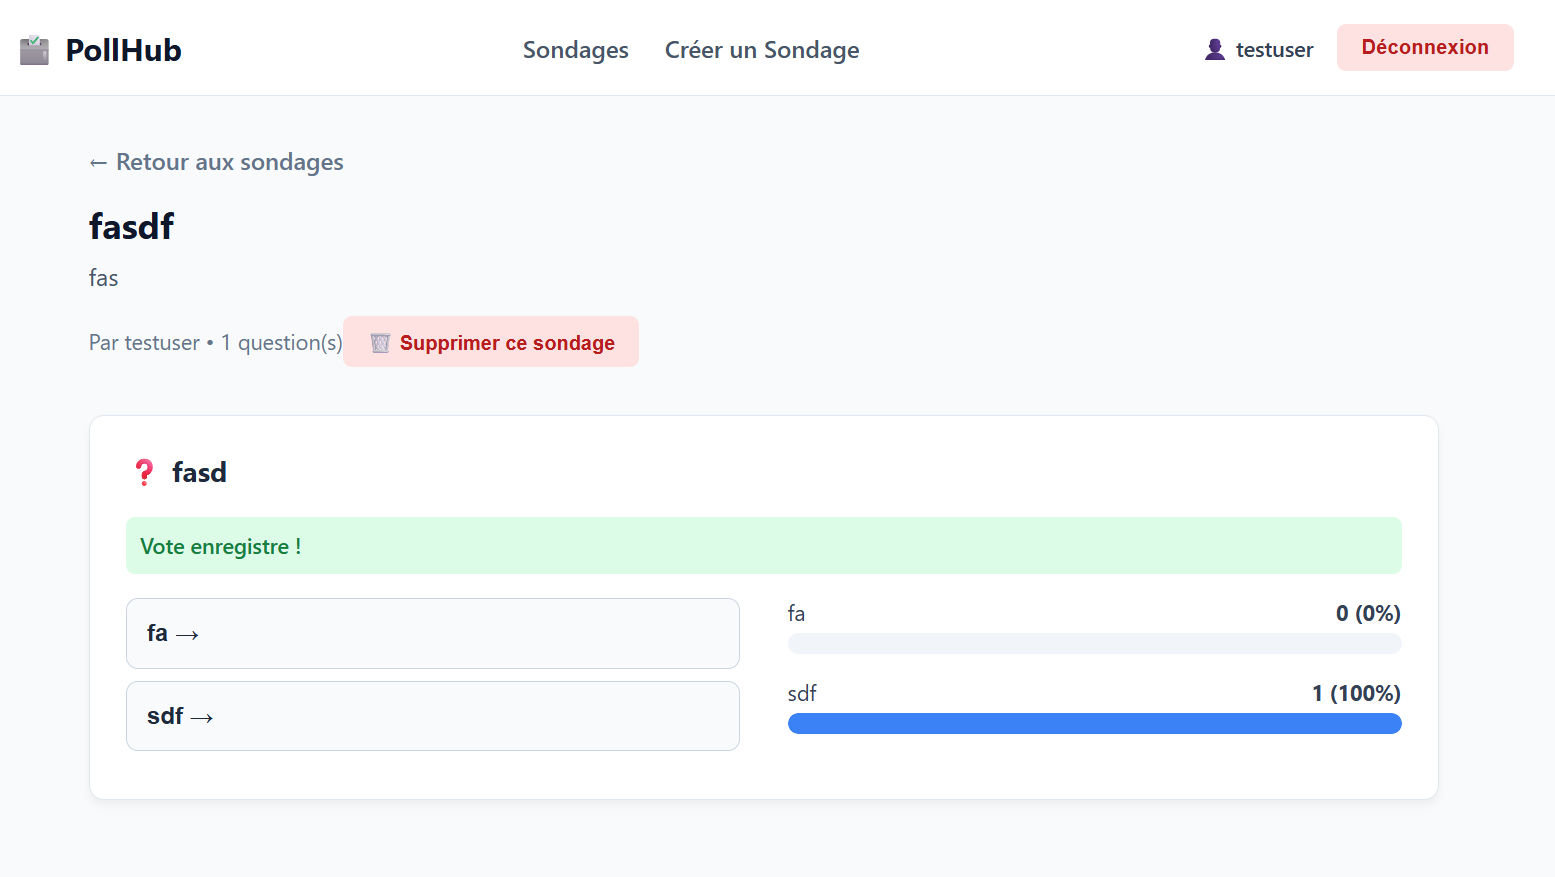
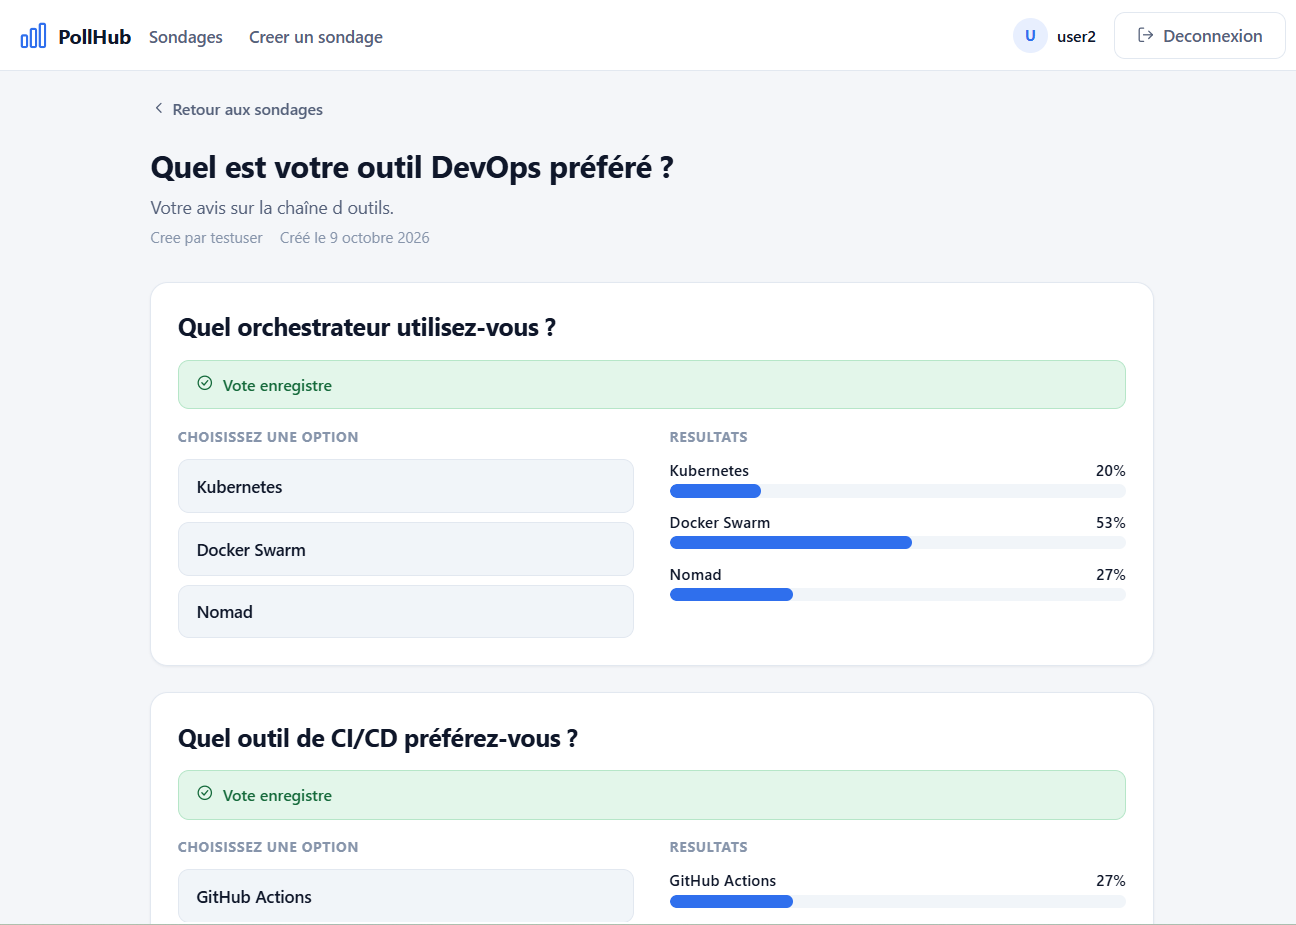
docs: README complet, schémas d'architecture et nouvelles captures

diff --git a/README.md b/README.md
@@ -1,47 +1,142 @@
 # PollHub
 
-Application de sondages multi-questions, déployée sur **Kubernetes** avec authentification **Keycloak**, anti-abus **Redis** et pipeline **CI/CD GitHub Actions**.
+Application de sondages multi-questions, conçue comme un projet **DevOps de bout en bout** : API sécurisée, authentification centralisée, déploiement sur Kubernetes, pipeline CI/CD et tests d'intégration.
 
 [![CI/CD](https://github.com/mededema/pollhub/actions/workflows/ci.yml/badge.svg)](https://github.com/mededema/pollhub/actions)
 [![License: MIT](https://img.shields.io/badge/License-MIT-yellow.svg)](LICENSE)
-
-> Projet portfolio axé **DevOps / Kubernetes** : l'application est volontairement simple, l'intérêt est dans l'écosystème autour.
+![Kubernetes](https://img.shields.io/badge/Kubernetes-326CE5?logo=kubernetes&logoColor=white)
+![Spring Boot](https://img.shields.io/badge/Spring_Boot-6DB33F?logo=springboot&logoColor=white)
+![Angular](https://img.shields.io/badge/Angular-DD0031?logo=angular&logoColor=white)
+![Keycloak](https://img.shields.io/badge/Keycloak-4D4D4D?logo=keycloak&logoColor=white)
+![PostgreSQL](https://img.shields.io/badge/PostgreSQL-4169E1?logo=postgresql&logoColor=white)
+![Redis](https://img.shields.io/badge/Redis-DC382D?logo=redis&logoColor=white)
+![Docker](https://img.shields.io/badge/Docker-2496ED?logo=docker&logoColor=white)
 
 ![Liste des sondages](docs/liste.png)
-![Page de vote](docs/vote.png)
+
+| Vote et résultats | Création d'un sondage | Vue mobile |
+|---|---|---|
+| ![Vote](docs/vote.png) | ![Création](docs/creation.png) | ![Mobile](docs/mobile.png) |
+
+L'application est volontairement simple : l'intérêt du projet est tout ce qu'il y a autour (sécurité, fiabilité, déploiement, automatisation).
 
 ## Fonctionnalités
 
-- Sondages avec **plusieurs questions**, chacune avec plusieurs options
-- Authentification **OpenID Connect** (Keycloak) avec jetons JWT
-- Un vote par question et par utilisateur, limite de **5 votes/minute** (Redis)
-- Résultats visibles après avoir voté (le créateur les voit toujours)
-- Le créateur peut supprimer ses sondages
+- Sondages à **plusieurs questions**, chacune avec 2 à 10 options
+- Authentification **OpenID Connect** (Keycloak), jetons JWT, API sans état
+- **Un vote par question et par utilisateur**, garanti par une contrainte unique en base
+- Limitation du nombre de votes par minute (anti-abus, Redis)
+- Résultats visibles après avoir voté (le créateur les voit toujours), mis à jour en direct
+- Le créateur peut supprimer ses sondages, avec confirmation
+- Interface responsive, thème clair et sombre automatique, navigation au clavier, respect de la préférence « réduire les animations »
 
 ## Architecture
 
 ```mermaid
 flowchart LR
-    U[Navigateur] -->|HTTPS| I[Ingress NGINX]
-    I -->|/auth| K[Keycloak]
-    I -->|/| F[Frontend Angular + Nginx]
-    F -->|/api| B[Backend Spring Boot]
-    B -->|valide les JWT| K
-    B --> R[(Redis)]
-    B --> P[(PostgreSQL)]
+    U(["Navigateur"])
+
+    subgraph K8S["Cluster Kubernetes (namespace pollhub)"]
+        direction LR
+        ING["Ingress NGINX<br/>HTTPS pollhub.local"]
+        subgraph APP["Application"]
+            FE["Frontend<br/>Angular + Nginx<br/>2 réplicas"]
+            BE["Backend<br/>Spring Boot<br/>API REST"]
+        end
+        KC["Keycloak<br/>OpenID Connect"]
+        subgraph DATA["Données"]
+            PG[("PostgreSQL<br/>StatefulSet + PVC")]
+            RD[("Redis<br/>compteurs et limites")]
+        end
+    end
+
+    U -->|"HTTPS"| ING
+    ING -->|"/"| FE
+    ING -->|"/auth"| KC
+    FE -->|"proxy /api"| BE
+    BE -->|"clés publiques JWT"| KC
+    BE --> PG
+    BE --> RD
 ```
 
 | Composant | Technologie | Rôle |
 |---|---|---|
 | Frontend | Angular 22, Nginx | Interface, proxy `/api` vers le backend |
-| Backend | Spring Boot 3.2, Java 21 | API REST, Resource Server OAuth2 |
-| Auth | Keycloak 23 | Utilisateurs, connexion, jetons JWT |
-| Cache / anti-abus | Redis 7 | Compteurs de votes, rate limiting |
-| Base de données | PostgreSQL 15 | Stockage durable (StatefulSet + PVC) |
-| Orchestration | Kubernetes (Minikube) | Déploiement, probes, ressources |
-| CI/CD | GitHub Actions, ghcr.io | Build et publication des images |
+| Backend | Spring Boot 3.2, Java 21 | API REST, resource server OAuth2 |
+| Authentification | Keycloak 23 | Comptes, connexion, jetons JWT |
+| Base de données | PostgreSQL 15 | Stockage durable (StatefulSet + volume persistant) |
+| Cache et anti-abus | Redis 7 | Compteurs de votes, limitation de débit |
+| Orchestration | Kubernetes (Minikube) | Déploiement, sondes de santé, ressources |
+| CI/CD | GitHub Actions, ghcr.io | Build, tests, publication des images |
 
-## Lancer avec Docker Compose
+## Connexion et vote
+
+```mermaid
+sequenceDiagram
+    autonumber
+    actor U as Utilisateur
+    participant F as Frontend Angular
+    participant K as Keycloak
+    participant B as Backend Spring Boot
+    participant R as Redis
+    participant P as PostgreSQL
+
+    U->>F: Ouvre l'application
+    F->>K: Redirection de connexion (OIDC, PKCE)
+    K-->>F: Code d'autorisation
+    F->>K: Échange du code
+    K-->>F: Jeton JWT (5 min)
+
+    U->>F: Vote pour une option
+    F->>B: POST /api/votes/... (Bearer JWT)
+    B->>K: Clés publiques (mises en cache)
+    B->>R: Limite de débit (script Lua atomique)
+    B->>P: INSERT du vote (contrainte unique)
+    alt Déjà voté
+        P-->>B: Violation de contrainte
+        B-->>F: 409 Conflict
+    else Vote enregistré
+        P-->>B: Validation de la transaction
+        B->>R: Incrémente le compteur (après validation)
+        B-->>F: 200 OK
+    end
+
+    F->>B: GET /api/polls/ID/results
+    B->>R: Lit les compteurs (recalculés depuis la base si absents)
+    B-->>F: Résultats
+```
+
+## Pipeline CI/CD
+
+```mermaid
+flowchart LR
+    DEV["Push sur main"] --> CI
+    subgraph CI["GitHub Actions"]
+        direction LR
+        BE["Backend<br/>build + tests Testcontainers"]
+        FE["Frontend<br/>npm ci + build"]
+        DK["Images Docker<br/>build + push"]
+        BE --> DK
+        FE --> DK
+    end
+    DK --> REG[("ghcr.io<br/>pollhub-backend, pollhub-frontend")]
+```
+
+Les images ne sont publiées que si le backend et le frontend passent. Sur une pull request, seuls les builds et les tests tournent.
+
+## Fiabilité et sécurité
+
+- **Pas de double vote, même en cas de requêtes simultanées** : une contrainte unique `(question, votant)` en base fait foi. Le contrôle applicatif ne sert qu'à renvoyer un message clair.
+- **Compteurs Redis cohérents** : ils ne sont mis à jour qu'après la validation de la transaction. Si Redis est indisponible ou a perdu ses données, la clé est supprimée puis recalculée depuis PostgreSQL à la lecture suivante.
+- **Limitation de débit atomique** : incrément et expiration dans un seul script Lua, sans clé orpheline possible.
+- **Validation côté serveur** : longueurs maximales, nombre de questions et d'options, date d'expiration dans le futur, validation en profondeur des questions imbriquées.
+- **Erreurs JSON homogènes** : toutes les erreurs, y compris 401 et 403 de Spring Security, ont la même forme (`status`, `error`, `message`, `path`, `fieldErrors`), sans trace d'exécution exposée.
+- **API sans état** : chaque requête est validée par son jeton JWT, aucune session côté serveur.
+- **Sondes Kubernetes** : liveness, readiness, et startupProbe pour Keycloak (démarrage lent).
+- **HTTPS** : requis par le navigateur pour l'API Web Crypto utilisée par PKCE.
+- **Images multi-étapes** : les images finales ne contiennent ni Maven ni Node.
+
+## Démarrage rapide (Docker Compose)
 
 ```bash
 git clone https://github.com/mededema/pollhub.git
@@ -51,13 +146,13 @@ docker compose up --build
 
 Ouvrir http://localhost:4200. Comptes de **démonstration** : `testuser` / `Password123!` et `user2` / `Password123!`.
 
-## Déployer sur Kubernetes (Minikube)
+## Déploiement sur Kubernetes (Minikube)
 
 ```bash
 minikube start --memory=4096 --cpus=2
 minikube addons enable ingress
 
-# Images construites dans Minikube
+# Images construites directement dans Minikube
 minikube image build -t pollhub-backend:local ./backend
 minikube image build -t pollhub-frontend:local ./frontend
 
@@ -73,43 +168,68 @@ kubectl apply -f k8s/
 kubectl get pods -n pollhub -w
 ```
 
-Ajouter `127.0.0.1 pollhub.local` au fichier `hosts`, lancer `minikube tunnel`, puis ouvrir **https://pollhub.local** (accepter l'avertissement du certificat auto-signé).
+Ajouter `127.0.0.1 pollhub.local` au fichier `hosts`, lancer `minikube tunnel`, puis ouvrir **https://pollhub.local** (accepter l'avertissement du certificat auto-signé). Keycloak met 2 à 4 minutes à démarrer.
 
-### Utiliser les images publiées (ghcr.io)
+Pour utiliser les images publiées par la CI :
 
 ```bash
 kubectl set image deploy/backend backend=ghcr.io/mededema/pollhub-backend:latest -n pollhub
 kubectl set image deploy/frontend frontend=ghcr.io/mededema/pollhub-frontend:latest -n pollhub
 ```
 
+## Configuration du backend
+
+| Variable | Rôle | Valeur par défaut |
+|---|---|---|
+| `POSTGRES_HOST`, `POSTGRES_DB`, `POSTGRES_USER`, `POSTGRES_PASSWORD` | Connexion PostgreSQL | `localhost`, `pollhub`, `pollhub`, `pollhub` |
+| `REDIS_HOST` | Hôte Redis | `localhost` |
+| `KEYCLOAK_ISSUER_URI` | Émetteur attendu dans les jetons | `http://localhost:8082/realms/pollhub` |
+| `POLLHUB_MAX_VOTES_PER_MINUTE` | Votes maximum par utilisateur et par minute | `30` |
+| `POLLHUB_CORS_ALLOWED_ORIGINS` | Origines autorisées, séparées par des virgules | `http://localhost:4200` |
+
 ## API
 
-| Méthode | Route | Auth |
-|---|---|---|
-| GET | `/api/polls`, `/api/polls/{id}` | Non |
-| GET | `/api/polls/{id}/results` | Oui (après avoir voté, ou créateur) |
-| GET | `/api/polls/my` | Oui |
-| POST | `/api/polls` | Oui |
-| DELETE | `/api/polls/{id}` | Oui (propriétaire) |
-| POST | `/api/votes/questions/{questionId}/options/{optionId}` | Oui |
-| GET | `/actuator/health` | Non |
+| Méthode | Route | Authentification | Réponses |
+|---|---|---|---|
+| GET | `/api/polls`, `/api/polls/{id}` | Non | 200, 404 |
+| GET | `/api/polls/{id}/results` | Oui (après un vote, ou créateur) | 200, 401, 403 |
+| GET | `/api/polls/my` | Oui | 200, 401 |
+| POST | `/api/polls` | Oui | 201, 400 |
+| DELETE | `/api/polls/{id}` | Oui (propriétaire) | 200, 403, 404 |
+| POST | `/api/votes/questions/{questionId}/options/{optionId}` | Oui | 200, 400, 404, 409, 410, 429 |
+| GET | `/actuator/health` | Non | 200 |
 
-## Choix techniques
+## Tests
 
-- **StatefulSet pour PostgreSQL** : identité stable et volume persistant dédié.
-- **Redis** : compteurs atomiques (`INCR`) et expiration native pour le rate limiting.
-- **Probes liveness / readiness / startup** : Kubernetes redémarre ce qui plante et n'envoie du trafic qu'aux pods prêts. La `startupProbe` de Keycloak évite qu'il soit tué pendant son long démarrage.
-- **Un seul point d'entrée (Ingress)** : seuls `/` et `/auth` sont exposés, `/api` passe par le Nginx du frontend.
-- **HTTPS** : requis par le navigateur pour l'API Web Crypto (PKCE de Keycloak).
-- **Multi-stage builds** : images finales légères, sans Maven ni Node.
+Les tests d'intégration démarrent de vrais PostgreSQL et Redis avec **Testcontainers** : aucune base à installer, seul Docker est nécessaire.
+
+```bash
+cd backend
+mvn test
+```
+
+Scénarios couverts : création valide et invalide (champs manquants, listes nulles, textes vides), vote, double vote, **10 votes simultanés du même utilisateur** (un seul enregistré, compteur cohérent), sondage expiré, règles d'accès aux résultats, suppression par un tiers puis par le propriétaire avec des votes existants, erreurs 401 au format JSON.
+
+## Structure du dépôt
+
+```
+pollhub/
+├── backend/        API Spring Boot, tests Testcontainers, Dockerfile
+├── frontend/       Application Angular, Nginx, Dockerfile
+├── k8s/            Manifests Kubernetes (namespace, config, postgres, redis, keycloak, backend, frontend, ingress)
+├── keycloak/       Realm importé automatiquement au démarrage
+├── docs/           Captures d'écran
+├── .github/        Pipeline GitHub Actions
+└── docker-compose.yml
+```
 
 ## Limites connues et pistes d'amélioration
 
-- Identifiants et secrets de **démo** dans le dépôt : en production, Sealed Secrets / Vault.
-- Certificat auto-signé : en production, cert-manager + Let's Encrypt.
-- Keycloak en mode `start-dev` avec base interne : en production, `start` avec PostgreSQL dédié.
-- Tests d'intégration à ajouter avec Testcontainers (désactivés en CI pour l'instant).
-- Prochaines étapes : Helm chart, monitoring Prometheus/Grafana, déploiement automatique (Argo CD).
+- Identifiants et secrets de **démonstration** dans le dépôt : en production, Sealed Secrets ou Vault.
+- Certificat auto-signé : en production, cert-manager et Let's Encrypt.
+- Keycloak en mode `start-dev` avec base interne : en production, `start` avec une base PostgreSQL dédiée.
+- Le jeton expire après 5 minutes et n'est pas renouvelé automatiquement côté interface.
+- Pistes : chart Helm, monitoring Prometheus et Grafana, déploiement continu avec Argo CD.
 
 ## Licence
 
